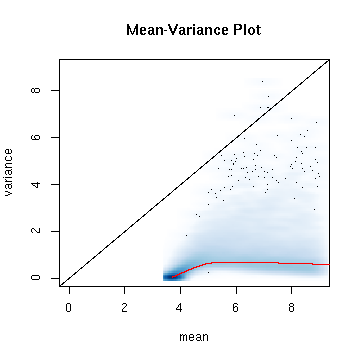
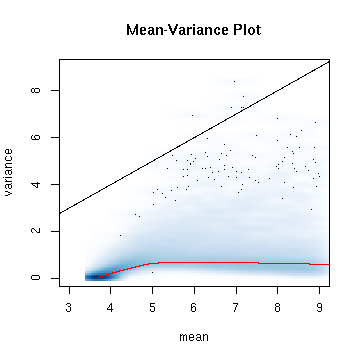
White space on slide 12 improved.

diff --git a/presentations/AMLclassifiers.html b/presentations/AMLclassifiers.html
@@ -269,8 +269,7 @@ Visualise again the relationship between mean and variance.
 
 
 ```r
-meanVarPlot(AMLExpressionSet, xlim = c(0, 9), ylim = c(0, 9),
-            main = "Mean-Variance Plot")
+meanVarPlot(AMLExpressionSet, xlim = c(3, 9), ylim = c(0, 9), main = "Mean-Variance Plot")
 ```
 
 &lt;img src="AMLclassifiers_files/figure-html/unnamed-chunk-15-1.png" style="display: block; margin: auto;" /&gt;
